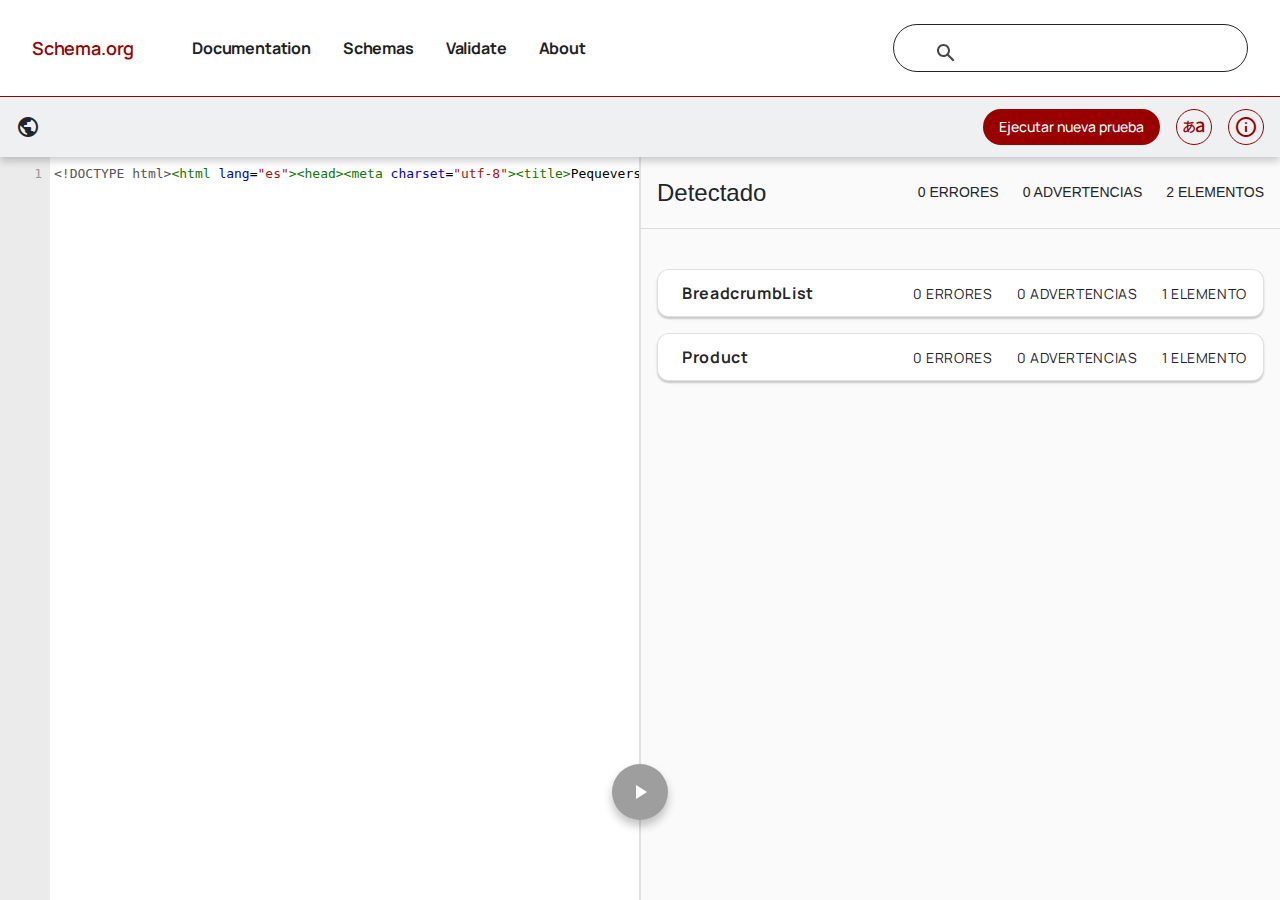
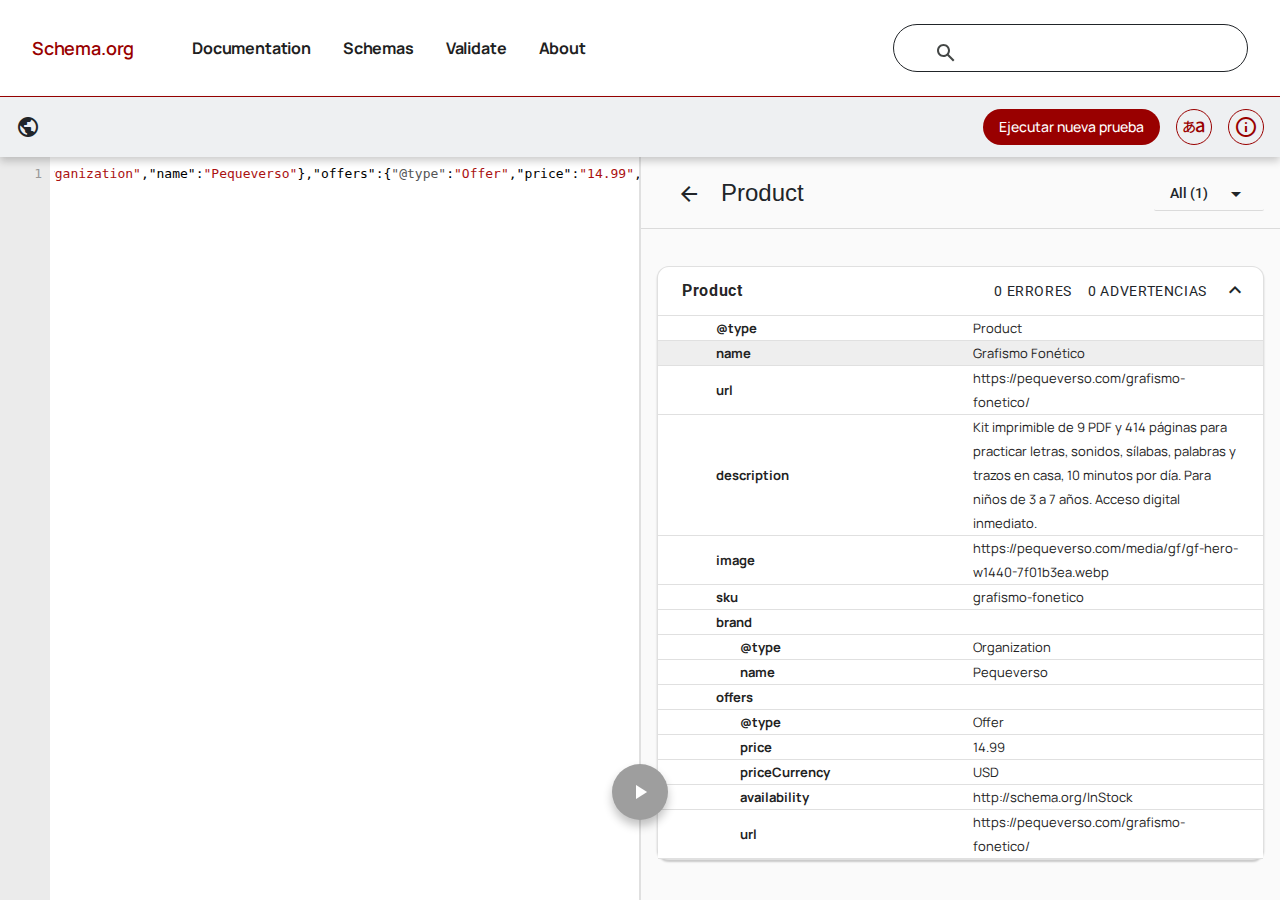
fix(m3-6): review fixes for structured-data tests, schema and verification docs
- json-ld test compares the logo with absoluteUrl() instead of an inline origin; no other new
  test carries an origin.
- The ld+json guard walks src with fs.globSync from import.meta.dirname instead of grep.
- The sitemap property test also asserts every lastModified is finite.
- seo.lastReviewed is required only for indexable products (discriminated union on index); the
  unused date is dropped from the noindex imprime-y-juega; the sitemap fails loudly if an
  indexable product lacks it.
- docs/verification/seo/README.md names the tool (validator.schema.org, because the Rich Results
  Test required sign-in), the date and each screenshot; the product screenshot now shows the
  expanded Offer (price, priceCurrency, availability).

Verified: lint, typecheck, npm test (366 pass), knip:production and knip.

diff --git a/tests/unit/json-ld.test.ts b/tests/unit/json-ld.test.ts
@@ -1,6 +1,6 @@
 import assert from "node:assert/strict";
-import { execFileSync } from "node:child_process";
-import { readFileSync } from "node:fs";
+import { globSync, readFileSync } from "node:fs";
+import { resolve } from "node:path";
 import { test } from "node:test";
 import { currency } from "../../config/commerce.ts";
 import { coreProducts } from "../../config/products/index.ts";
@@ -31,7 +31,7 @@ test("home graph has Organization and WebSite without SearchAction, ratings or r
   assert.ok(org && web);
   assert.equal(org.name, site.name);
   assert.equal(org.url, absoluteUrl("/"));
-  assert.match(String(org.logo), /^https:\/\/pequeverso\.com\/media\/brand\//);
+  assert.ok(String(org.logo).startsWith(absoluteUrl("/media/brand/")));
   assert.deepEqual(org.sameAs, Object.values(site.social));
   assert.equal(web.url, absoluteUrl("/"));
   assert.equal(web.inLanguage, "es");
@@ -60,9 +60,13 @@ test("Product and Offer values equal the registry config", () => {
 });
 
 test("only the shared JsonLdScript emits ld+json, always through jsonLd()", () => {
-  const found = execFileSync("grep", ["-rl", "ld+json", "src"], { encoding: "utf8" })
-    .split("\n")
-    .filter(Boolean);
+  const root = resolve(import.meta.dirname, "../..");
+  const found = globSync("src/**/*.{ts,tsx}", { cwd: root })
+    .filter((file) => readFileSync(resolve(root, file), "utf8").includes("ld+json"))
+    .map((file) => file.replaceAll("\\", "/"));
   assert.deepEqual(found, ["src/shared/seo/json-ld-script.tsx"]);
-  assert.match(readFileSync(found[0] as string, "utf8"), /__html: jsonLd\(data\)/);
+  assert.match(
+    readFileSync(resolve(root, "src/shared/seo/json-ld-script.tsx"), "utf8"),
+    /__html: jsonLd\(data\)/,
+  );
 });

diff --git a/config/products/schema.ts b/config/products/schema.ts
@@ -38,14 +38,17 @@ const Media = z.object({
   cards: z.array(MediaId).min(1),
 });
 
-const Seo = z.object({
-  index: z.boolean(),
+const SeoBase = z.object({
   title: z.string().min(1),
   description: z.string().min(1),
   priority: z.number().min(0).max(1),
-  /** Last review date of the page content (ISO date), feeds the sitemap `lastModified`. */
-  lastReviewed: IsoDate,
 });
+
+/** Indexable pages must carry the review date that feeds the sitemap `lastModified`. */
+const Seo = z.discriminatedUnion("index", [
+  SeoBase.extend({ index: z.literal(true), lastReviewed: IsoDate }),
+  SeoBase.extend({ index: z.literal(false), lastReviewed: IsoDate.optional() }),
+]);
 
 const Resource = z.object({
   id: z.string().regex(SLUG),

diff --git a/src/app/sitemap.ts b/src/app/sitemap.ts
@@ -12,6 +12,11 @@ type Route = {
   changeFrequency: "weekly" | "monthly";
 };
 
+function reviewedOf(date: string | undefined, path: string): string {
+  if (!date) throw new Error(`indexable product ${path} has no seo.lastReviewed`);
+  return date;
+}
+
 /** Indexable routes only; post-purchase and pure legal pages are noindex and excluded. */
 function indexableRoutes(): Route[] {
   return [
@@ -20,7 +25,7 @@ function indexableRoutes(): Route[] {
       (product): Route => ({
         path: product.path,
         priority: product.seo.priority,
-        reviewed: product.seo.lastReviewed,
+        reviewed: reviewedOf(product.seo.lastReviewed, product.path),
         changeFrequency: "monthly",
       }),
     ),

diff --git a/tests/unit/property/sitemap.property.test.ts b/tests/unit/property/sitemap.property.test.ts
@@ -41,6 +41,7 @@ test("sitemap stays absolute, unique, canonical and date-stable across generatio
         assert.equal(url.search, "");
         assert.equal(url.hash, "");
         // lastModified is the content review date, never the generation time.
+        assert.ok(Number.isFinite(Number(entry.lastModified)));
         assert.equal(Number(entry.lastModified), stable[index]);
       }
     }),

diff --git a/config/products/imprime-y-juega.ts b/config/products/imprime-y-juega.ts
@@ -26,7 +26,6 @@ export const imprimeYJuega = {
     description:
       "Seis PDF con 384 páginas y nueve recursos para casa, viajes, esperas, creatividad, observación, valores y juego. Oferta opcional después de comprar Grafismo Fonético.",
     priority: 0,
-    lastReviewed: "2026-10-18",
   },
   pricing: { upsell: 14.99, downsell: 7.49 },
   parent: "grafismo-fonetico",

diff --git a/tests/unit/sitemap.test.ts b/tests/unit/sitemap.test.ts
@@ -56,7 +56,7 @@ test("sitemap lastModified comes from content review dates, not build time", asy
     ["/soporte/", pageReviewed.support],
     ...indexableProducts().map((product): [string, string] => [
       product.path,
-      product.seo.lastReviewed,
+      String(product.seo.lastReviewed),
     ]),
   ]);
   for (const entry of entries) {

diff --git a/docs/verification/seo/README.md b/docs/verification/seo/README.md
@@ -1,0 +1,15 @@
+# SEO structured-data verification (M3-6)
+
+Captured on 2026-11-14 with an isolated Playwright Chromium, in validator.schema.org (code
+snippet mode). Google's Rich Results Test could not be used: its code mode answers "Something
+went wrong, log in and try again" without a Google sign-in.
+
+The input was the JSON-LD script blocks of the built static export (`out/index.html` and
+`out/grafismo-fonetico/index.html`), wrapped in a minimal HTML document.
+
+| File | Shows |
+|---|---|
+| `schema-validator-home.png` | Home page graph: `WebSite` with its `Organization` publisher (logo, `sameAs`, email); 0 errors, 0 warnings. No `SearchAction`. |
+| `schema-validator-product.png` | Grafismo Fonético: `Product` expanded with its `Offer` (price 14.99, priceCurrency USD, availability, url); 0 errors, 0 warnings. The `BreadcrumbList` of the same page also validates with 0 errors. |
+
+The validator normalises `availability` to `http://schema.org/InStock` in its display; the page emits `https://schema.org/InStock`.
